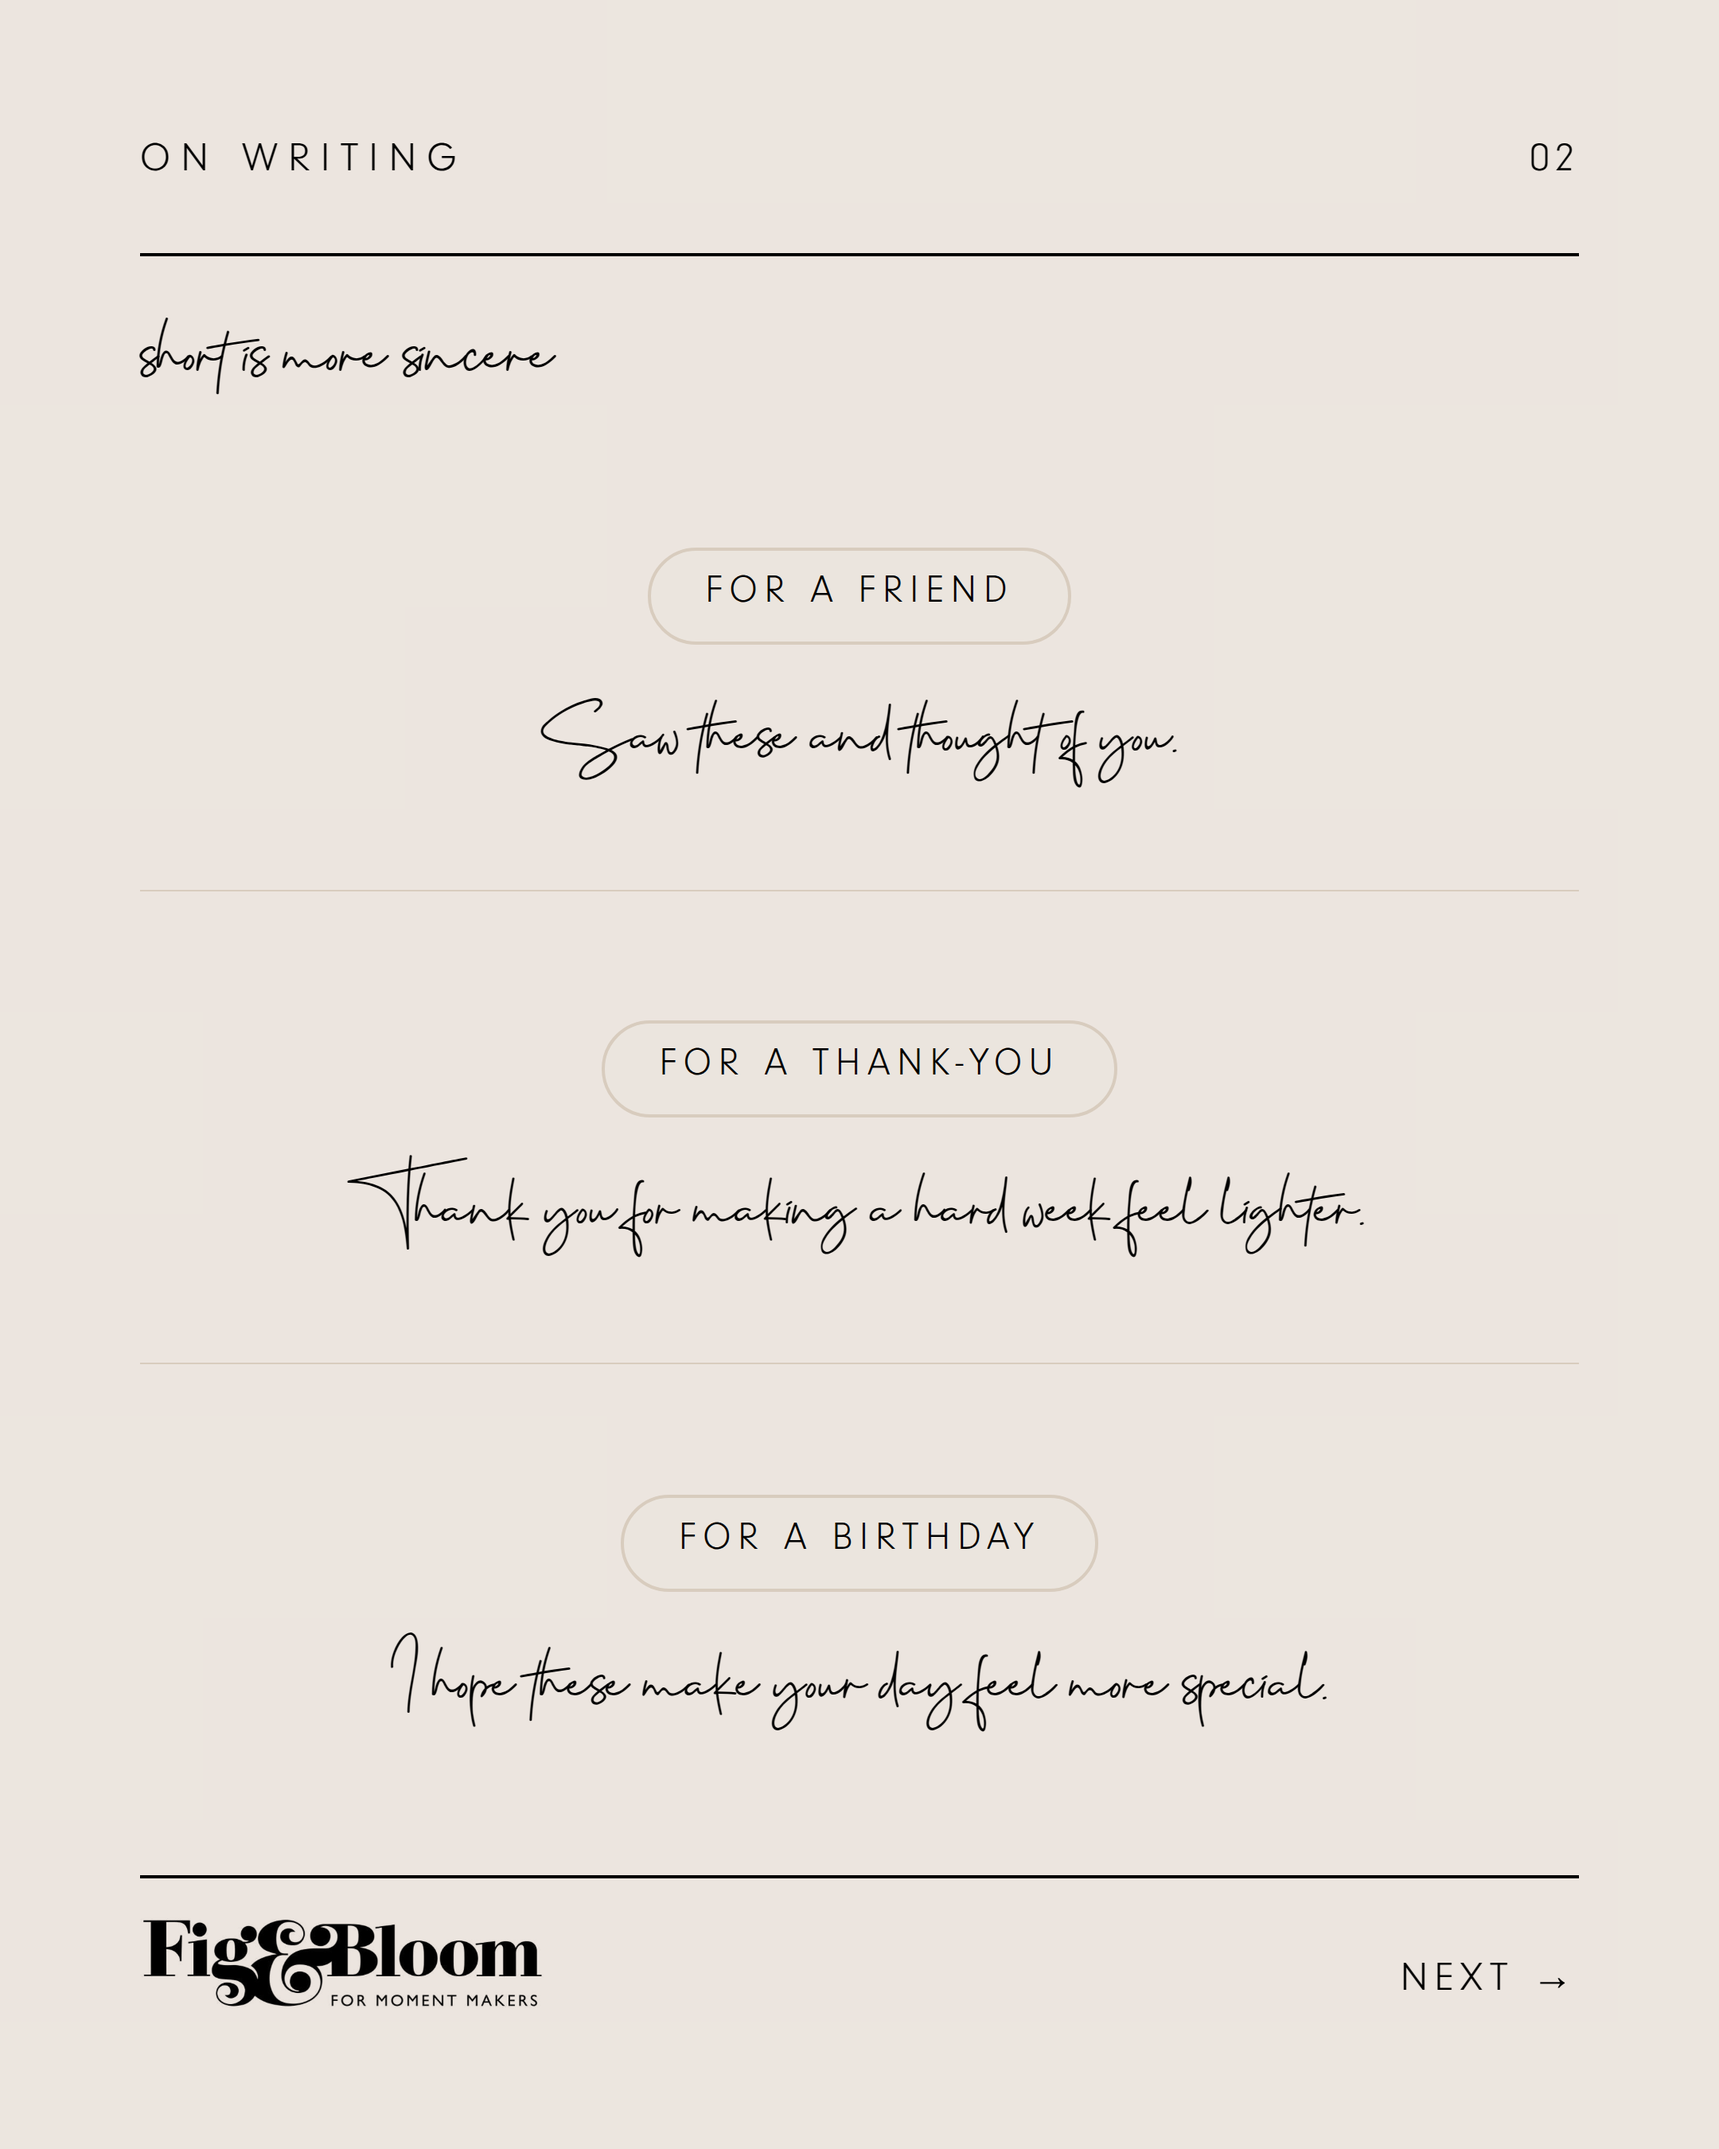
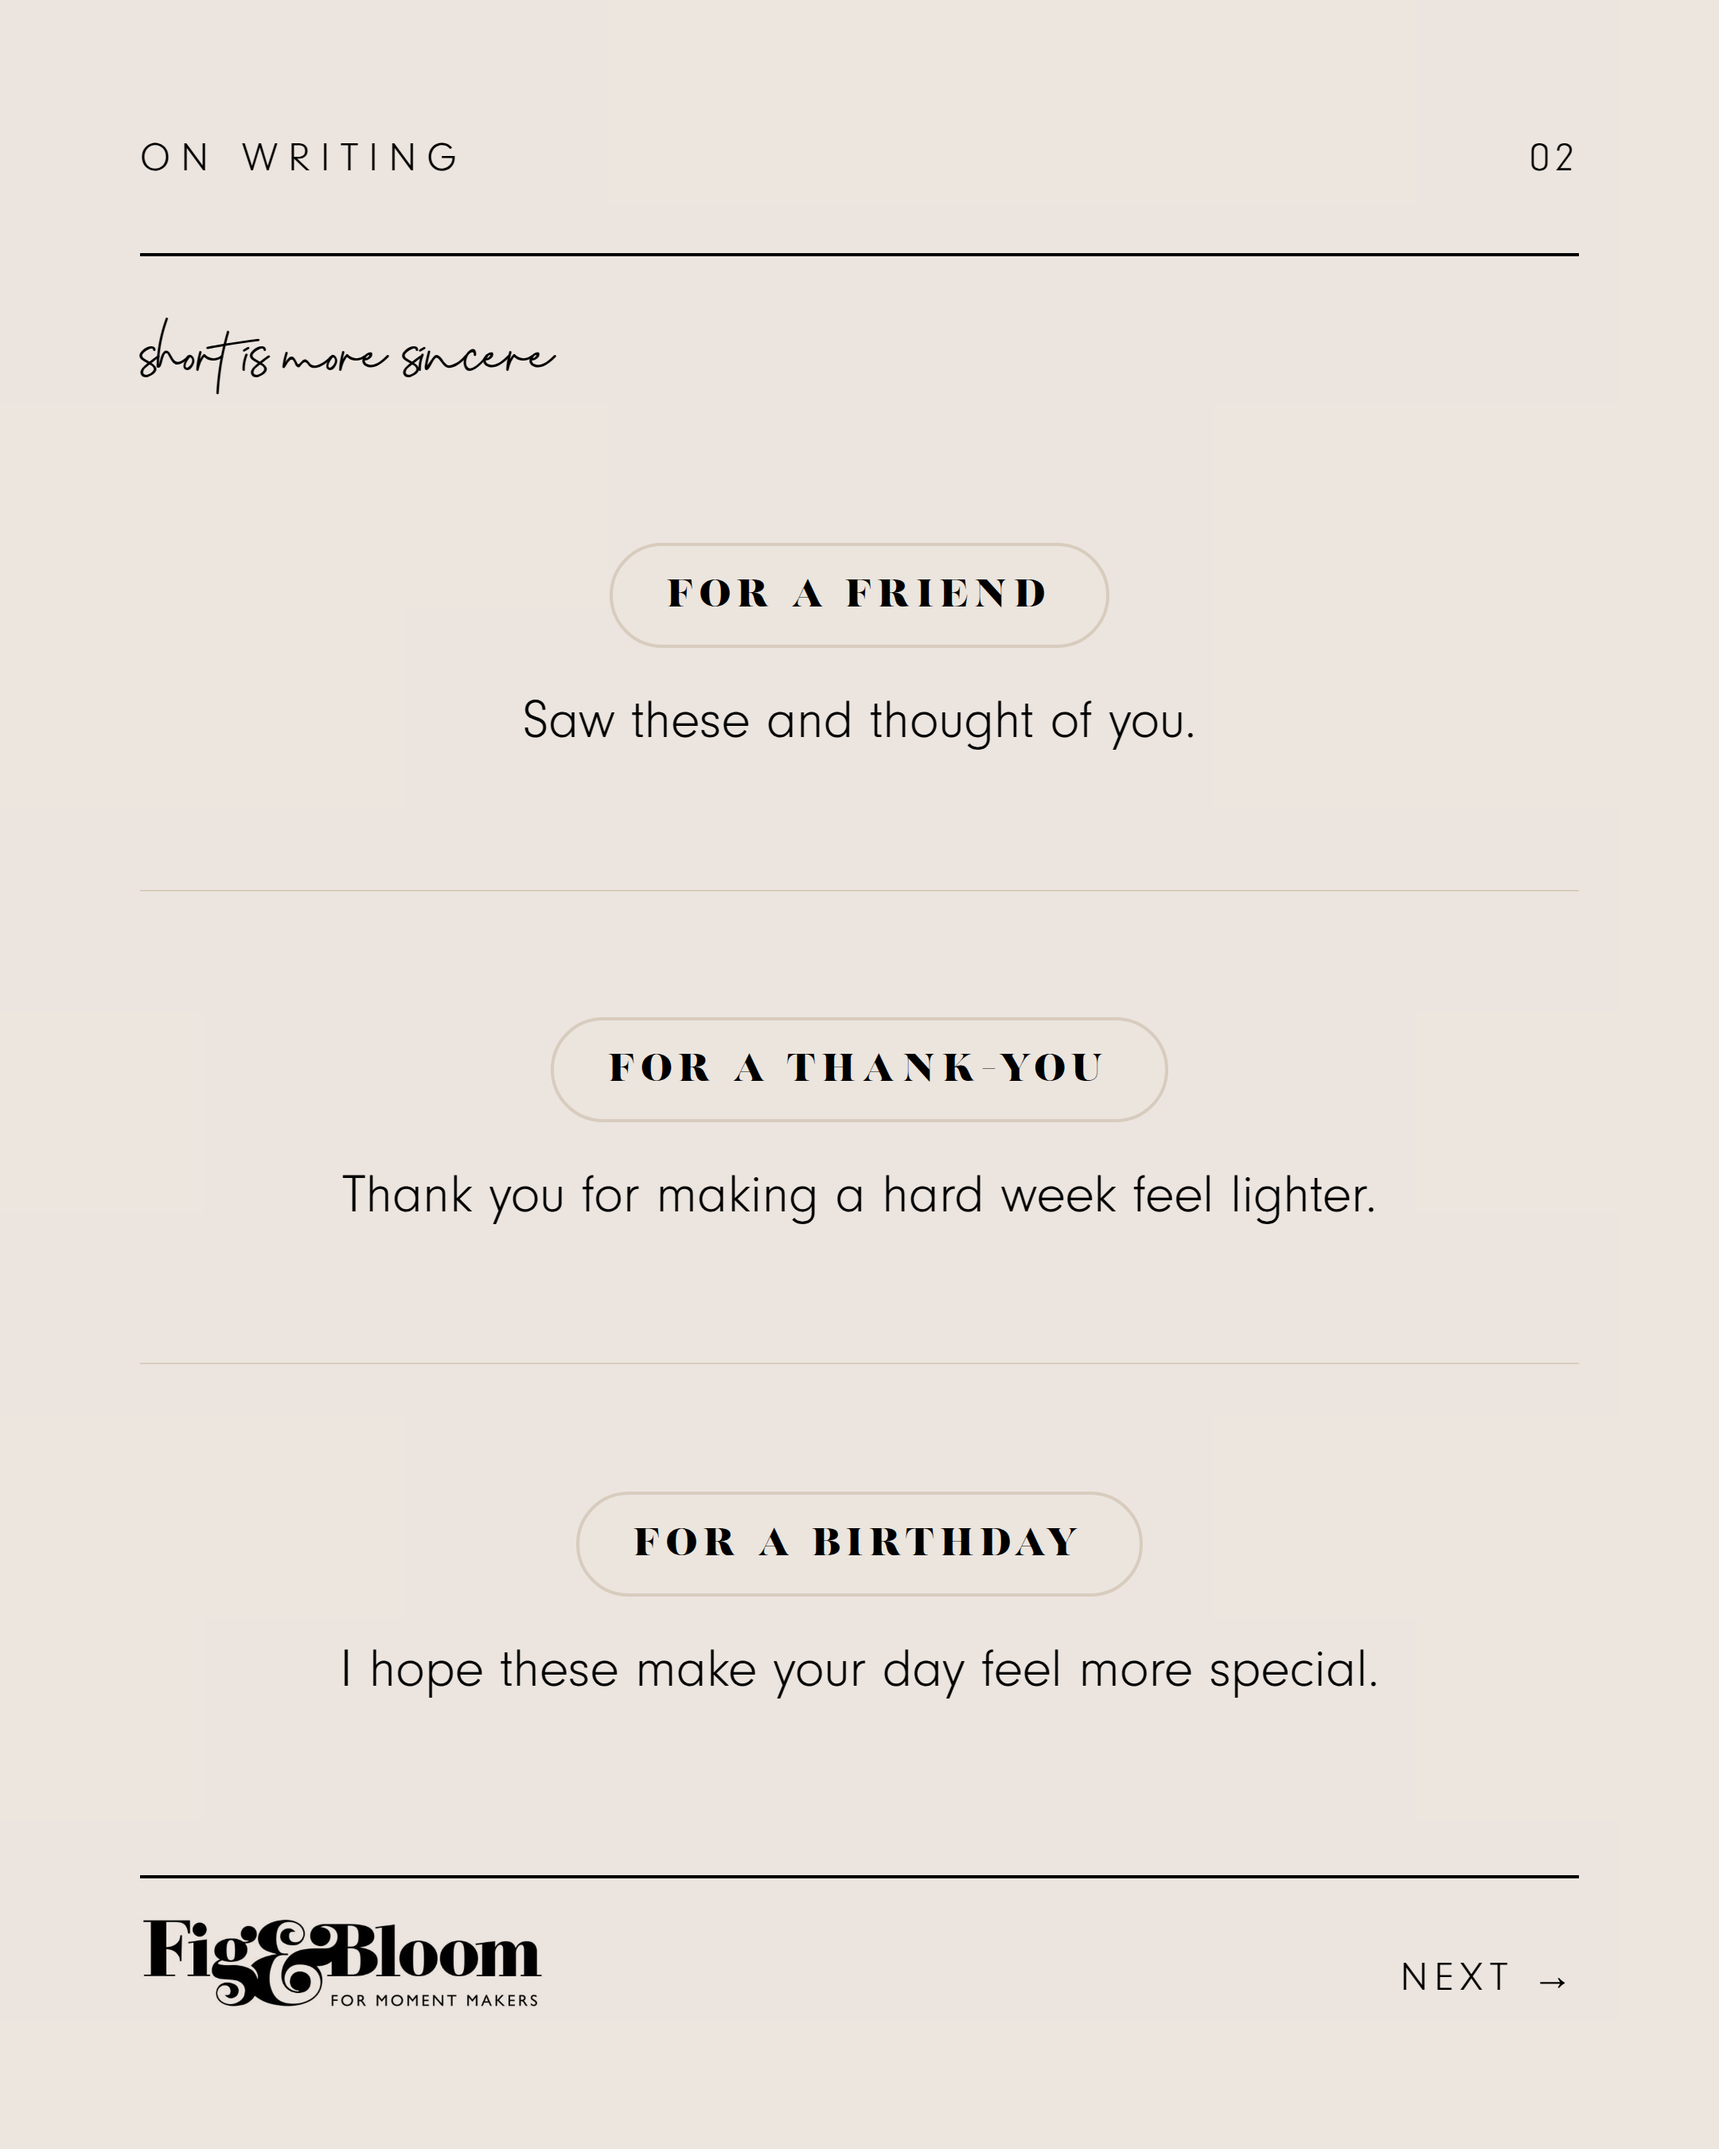
feat(carousel-journal): add font lever to interior slide (editorial default)
The interior slide's pill/body pairing is now a selectable enum lever, same
mechanism as theme/surface:
- editorial (default): Lust pills in Title Case + Neuzeit Grotesk body in
  sentence case — the corrected, magazine baseline
- script: Neuzeit pills (tracked caps) + Cervanttis body — the original look,
  pixel-identical to pre-change output (verified by diff)

Only font-family and the editorial casing change; sizes, spacing, colours,
layout untouched. Unknown/missing value falls back to editorial (the base
style). Declared in the interior template header LEVERS block (feeds
/api/schema + /api/library) and mirrored in manifest.json; data-font on the
slide root drives the CSS. Default chosen as editorial per the brief's
decision flag (confirmed: re-styles the 2 live interior posts unless they
pin font:script).

Manifest bumped to 3.3.0 (busts the content-addressed render cache); previewV
now folds in the design-system version so the template change also busts the
immutable browser-cached preview/download URLs. Re-rendered the four
interior-bearing examples. DESIGN.md documents the lever.

https://claude.ai/code/session_01X68Er5NQHsUibPdmhqHRUx

diff --git a/design-system/designs/carousel-journal/interior.html b/design-system/designs/carousel-journal/interior.html
@@ -11,9 +11,11 @@
        cta     : text  | footer CTA — "Next →" mid-deck, "Read the guide →" on the last interior
        photo   : image, optional | faint ground plate; omit for flat clay-tint
        voice   : text, optional  | Cervanttis voice line — its own block, never inline
+     LEVERS:
+       font : enum editorial|script | Font pairing — editorial = Lust pills + Neuzeit body; script = Neuzeit pills + Cervanttis body.
      NOTE        : exactly three sections by design — keeps the rhythm even. Do not add a fourth.
      PALETTE       : clay-tint #ECE6DF surface · ink #000000 type · clay #D8CCBE pill stroke
-     TYPE          : Lust display + Cervanttis voice line + Neuzeit Grotesk sans
+     TYPE          : font lever — editorial (default): Lust pills + Neuzeit body · script: Neuzeit pills + Cervanttis body
 -->
 <!doctype html><html><head><meta charset="utf-8"><style>
 @font-face{font-family:Lust;src:url('{{ASSETS_BASE}}/fonts/Lust-Regular.otf')}
@@ -33,8 +35,16 @@ html,body{width:{{W}}px;height:{{H}}px;overflow:hidden}
 .voice:empty{display:none}
 .secs{flex:1;display:flex;flex-direction:column;min-height:0;padding:24px 0}
 .sec{flex:1;display:flex;flex-direction:column;align-items:center;justify-content:center;text-align:center}
-.pill{display:inline-block;border:2px solid #D8CCBE;border-radius:999px;padding:14px 34px;font-family:Sans;font-size:24px;letter-spacing:.18em;text-transform:uppercase;color:#000000;background:rgba(236,230,223,.85)}
-.q{margin-top:28px;font-family:CervI;font-size:34px;line-height:1.3;color:#000000;max-width:100%}
+.pill{display:inline-block;border:2px solid #D8CCBE;border-radius:999px;padding:14px 34px;font-family:Lust;font-size:24px;letter-spacing:.18em;text-transform:uppercase;color:#000000;background:rgba(236,230,223,.85)}
+.q{margin-top:28px;font-family:Sans;font-size:34px;line-height:1.3;color:#000000;max-width:100%}
+/* font lever — base above is `editorial` (Lust pills + Neuzeit body), the default and the
+   unknown-value fallback; `script` restores the original Neuzeit pills + Cervanttis body.
+   Casing per pairing: editorial sets Lust pills in Title Case and the Neuzeit body in
+   sentence case (as authored); script keeps the original tracked-caps pills (base .pill). */
+.stage[data-font="editorial"] .pill{text-transform:capitalize}
+.stage[data-font="editorial"] .q{text-transform:none}
+.stage[data-font="script"] .pill{font-family:Sans}
+.stage[data-font="script"] .q{font-family:CervI}
 .div{height:1px;background:#D8CCBE}
 .foot{padding-top:0}
 .frule{height:2px;background:#000000;margin-bottom:24px}
@@ -51,7 +61,7 @@ html,body{width:{{W}}px;height:{{H}}px;overflow:hidden}
 .stage.r9x16 .pill{font-size:26px}
 .stage.r9x16 .q{font-size:40px}
 </style></head><body>
-<div class="stage {{ORIENT}} {{RATIO_CLASS}}">
+<div class="stage {{ORIENT}} {{RATIO_CLASS}}" data-font="{{font}}">
   <div class="ov"></div>
   <div class="col">
     <div class="mast"><span class="kicker">{{kicker}}</span><span class="idx">{{index}}</span></div>
@@ -73,3 +83,4 @@ html,body{width:{{W}}px;height:{{H}}px;overflow:hidden}
     </div>
   </div>
 </div></body></html>
+

diff --git a/server.js b/server.js
@@ -6,7 +6,8 @@ const http = require('http');
 const crypto = require('crypto');
 const fs = require('fs');
 const path = require('path');
-const { buildSchema } = require('./lib/parseDesigns');
+const { buildSchema, loadManifest } = require('./lib/parseDesigns');
+const DS_VERSION = loadManifest().version;
 const render = require('./lib/render');
 const designs = require('./lib/designs');
 const assets = require('./lib/assets');
@@ -299,8 +300,9 @@ const server = http.createServer(async (req, res) => {
         if (!postId) {
           if (req.method === 'GET') {
             const rec = await campaigns.get(id);
-            // previewV: content hash per post — versions the preview.png URL
-            for (const cp of rec.posts) cp.previewV = crypto.createHash('sha256').update(JSON.stringify(cp.post)).digest('hex').slice(0, 16);
+            // previewV: content hash per post (+ design-system version, so a template
+            // change like a new lever busts the immutable browser-cached preview/download URLs)
+            for (const cp of rec.posts) cp.previewV = crypto.createHash('sha256').update(DS_VERSION + '\n' + JSON.stringify(cp.post)).digest('hex').slice(0, 16);
             return send(res, 200, Object.assign({ canGenerate: generate.hasKey() }, rec));
           }
           if (req.method === 'PUT') return send(res, 200, await campaigns.update(id, await readBody(req)));

diff --git a/design-system/designs/carousel-journal/DESIGN.md b/design-system/designs/carousel-journal/DESIGN.md
@@ -11,7 +11,7 @@ The first locked design in the Fig & Bloom social system. Type-led, restrained, 
 |---|---|---|---|
 | `cover` | required | opener / hook | Headline owns the upper third; plate is supporting. `theme` lever: light or dark. |
 | `intro` | optional (faint) | lede / story | Serif lede + body paragraph + a bridge line into the examples. Sets up the bullets. |
-| `interior` | optional (faint) | body / proof | Exactly three sample-message sections. Copy leads. Repeatable. |
+| `interior` | optional (faint) | body / proof | Exactly three sample-message sections. Copy leads. Repeatable. `font` lever: editorial or script. |
 | `closing` | required (darkened) | closer | Centred brand mark + italic sign-off line over a moody plate. |
 
 Recommended sequence: `cover → intro → interior → interior → closing`. The cover carries the date; content pages number from `01` (intro). Add/remove interiors as the copy needs; keep one cover, one closing.
@@ -28,10 +28,19 @@ Recommended sequence: `cover → intro → interior → interior → closing`. T
 
 **cover** — `kicker`, `index`, `headline` (markdown), `cta`, `photo` (image); lever `theme: light|dark`
 **intro** — `kicker`, `index`, `lede` (markdown), `body`, `lead_in`, `cta`, `photo` (image, optional)
-**interior** — `kicker`, `index`, `label_1..3`, `quote_1..3`, `cta`, `photo` (image, optional)
+**interior** — `kicker`, `index`, `label_1..3`, `quote_1..3`, `cta`, `photo` (image, optional); lever `font: editorial|script`
 **closing** — `end_line` (markdown), `cta`, `url`, `photo` (image)
 
 `headline`, `lede` and `end_line` accept one inline marker: wrap a word in `*asterisks*` for the italic display serif, and `<br>` for a controlled line break. Body tokens are plain text (`<br><br>` for a paragraph break).
+
+## Font lever (interior)
+
+The `interior` slide's pill/body pairing is selectable:
+
+- `editorial` (**default**) → pills in **Lust** (serif), quote/body in **Neuzeit Grotesk** (sans). The corrected, magazine baseline.
+- `script` → pills in **Neuzeit Grotesk**, quote/body in **Cervanttis** (script). The original pairing.
+
+Casing follows the pairing: `editorial` sets the Lust pills in **Title Case** and the Neuzeit body in **sentence case** (as authored — not forced lowercase or capitalised); `script` keeps the original tracked **ALL-CAPS** pills. Sizes, spacing, colours and layout are identical across both. The "Cervanttis is lowercase" rule applies only under `script` (where the body is Cervanttis). A missing or unknown value falls back to `editorial`. The lever is the base style, so older posts that don't set `font` now render `editorial`; pin `font: "script"` to keep the previous look.
 
 ## Theme lever (cover)
 
